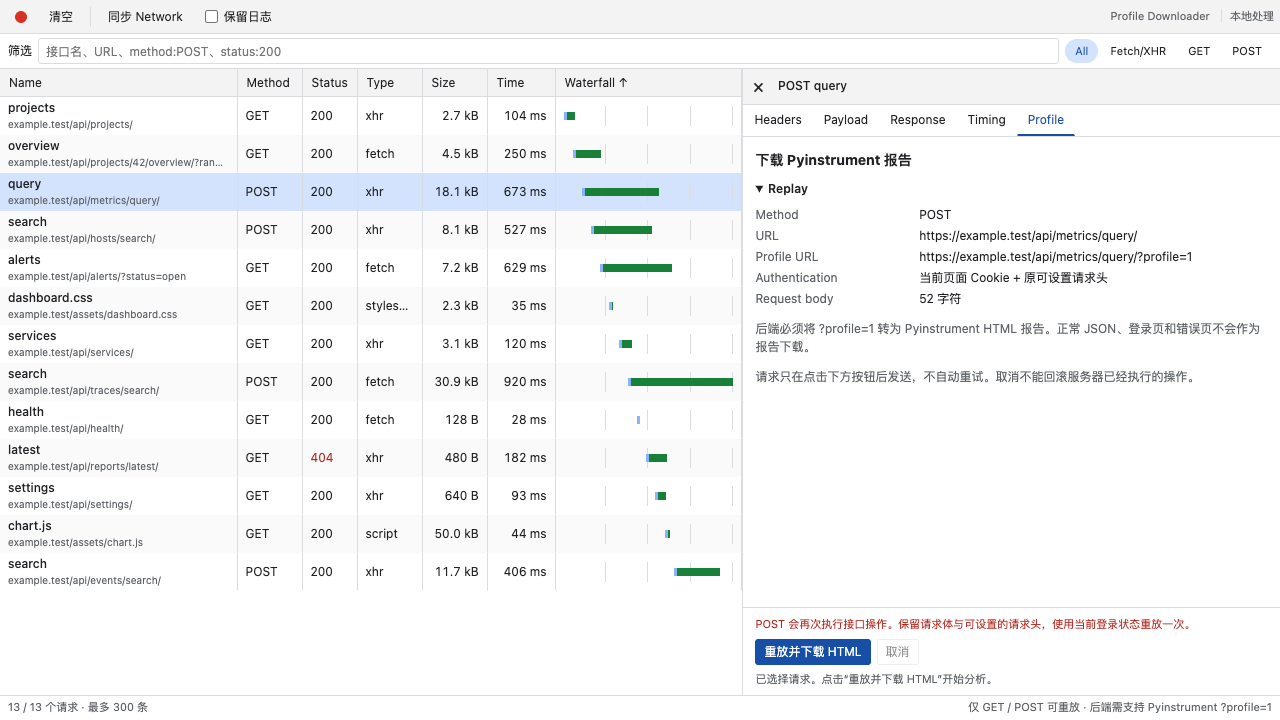
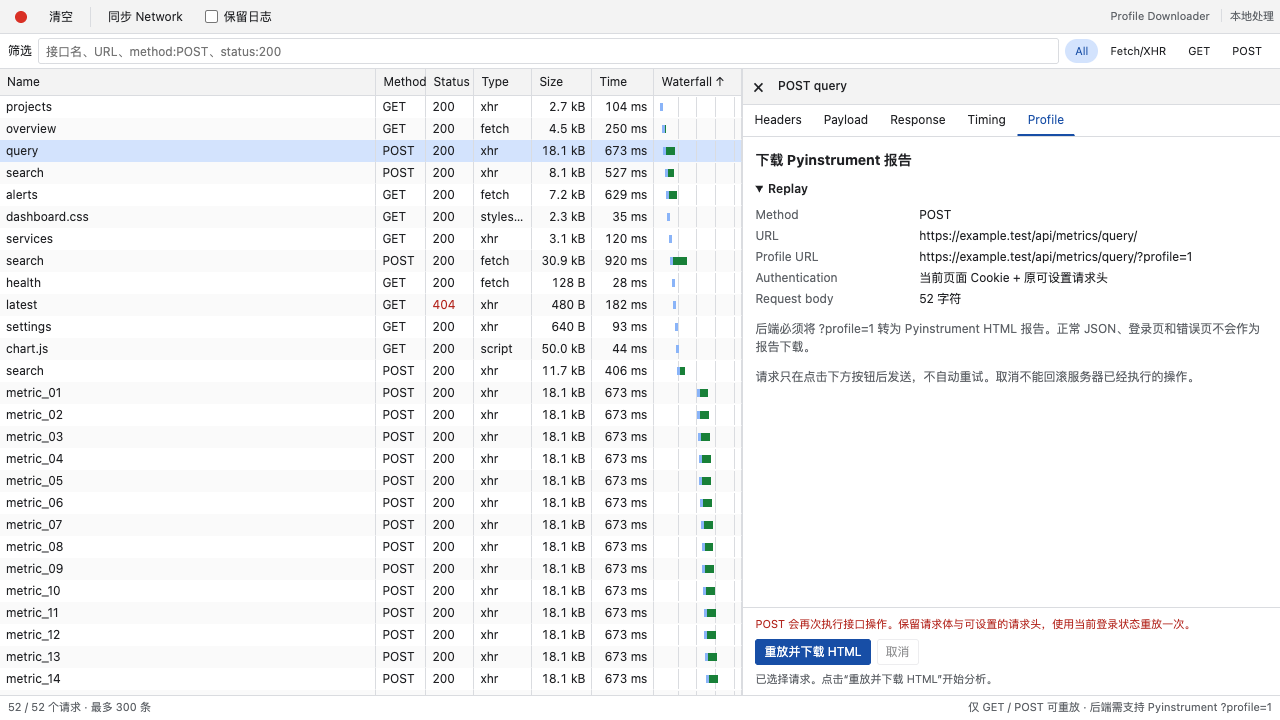
fix: match Network request row density and fit narrow panels

diff --git a/panel.css b/panel.css
@@ -1,4 +1,7 @@
 :root{color-scheme:light;--bg:#fff;--toolbar:#f3f3f3;--text:#202124;--muted:#5f6368;--line:#dadce0;--hover:#f0f4fa;--selected:#d3e3fd;--accent:#174ea6;--on-accent:#fff;--error:#b3261e;--stripe:#fafafa;--waterfall:#188038;--wait:#8ab4f8}
 :root[data-theme=dark]{color-scheme:dark;--bg:#202124;--toolbar:#292a2d;--text:#e8eaed;--muted:#bdc1c6;--line:#45474a;--hover:#30343b;--selected:#394b68;--accent:#a8c7fa;--on-accent:#062e6f;--error:#f2b8b5;--stripe:#242529;--waterfall:#81c995;--wait:#669df6}
-*{box-sizing:border-box}body{margin:0;background:var(--bg);color:var(--text);font:12px/1.5 -apple-system,BlinkMacSystemFont,"Segoe UI",sans-serif;height:100vh;display:flex;flex-direction:column;overflow:hidden}button,input{font:inherit;color:inherit}button{border:1px solid transparent;background:transparent;cursor:pointer;border-radius:3px;min-height:26px;padding:2px 8px;white-space:nowrap}button:hover:not(:disabled){background:var(--hover)}button:disabled{opacity:.5;cursor:default}button:focus-visible,input:focus-visible,[tabindex]:focus-visible{outline:2px solid var(--accent);outline-offset:-2px}.toolbar{display:flex;align-items:center;gap:4px;min-height:34px;padding:3px 6px;background:var(--toolbar);border-bottom:1px solid var(--line);flex-wrap:wrap}.toolbar-end{margin-left:auto;color:var(--muted);font-size:11px}.local{border-left:1px solid var(--line);margin-left:8px;padding-left:8px}.icon-button{font-size:19px;min-width:28px;display:inline-grid;place-content:center}.record-dot{display:block;width:12px;height:12px;border:2px solid var(--muted);border-radius:50%}.recording .record-dot{background:#d93025;border-color:#d93025}.divider{height:20px;border-left:1px solid var(--line);margin:0 4px}.checkbox{display:flex;align-items:center;gap:3px;padding-inline:5px;white-space:nowrap}.checkbox input{accent-color:var(--accent)}.filterbar{display:flex;align-items:center;gap:6px;padding:4px 8px;border-bottom:1px solid var(--line);flex-wrap:wrap}.filterbar>input{min-width:150px;flex:1;border:1px solid var(--line);background:var(--bg);border-radius:3px;height:26px;padding:2px 7px}.filters{display:flex;gap:2px}.filters button{border-radius:12px;min-height:24px;font-size:11px;padding:1px 9px}.filters .active{background:var(--selected);color:var(--accent)}main{display:flex;flex:1;min-height:0;overflow:hidden}.requests{flex:1;min-width:0;display:flex;flex-direction:column}.table-scroll{overflow:auto;flex:1;position:relative}table{width:100%;min-width:700px;table-layout:fixed;border-collapse:separate;border-spacing:0;font-size:12px}.name-col{width:32%}.method-col{width:65px}.status-col{width:55px}.type-col{width:65px}.size-col{width:65px}.time-col{width:68px}.waterfall-col{width:auto}thead{position:sticky;top:0;z-index:1;background:var(--toolbar)}th{text-align:left;font-weight:400;border-bottom:1px solid var(--line);border-right:1px solid var(--line);height:28px;padding:0}th button{border-radius:0;width:100%;text-align:left;padding:2px 8px}td{height:38px;padding:2px 8px;overflow:hidden;text-overflow:ellipsis;white-space:nowrap;border-right:1px solid var(--line);border-bottom:1px solid transparent}tr:nth-child(even) td{background:var(--stripe)}tbody tr{cursor:default}tbody tr:hover td{background:var(--hover)}tbody tr.selected td{background:var(--selected)}tbody tr.failed .status-cell{color:var(--error)}.request-name{font-weight:500;display:block;overflow:hidden;text-overflow:ellipsis}.request-path{font-size:10px;color:var(--muted);display:block;overflow:hidden;text-overflow:ellipsis}.numeric{text-align:right;font-variant-numeric:tabular-nums}.waterfall-track{height:20px;position:relative;background:repeating-linear-gradient(to right,transparent 0,transparent calc(25% - 1px),var(--line) calc(25% - 1px),var(--line) 25%)}.waterfall-bar{position:absolute;top:6px;height:8px;min-width:2px;background:var(--waterfall);border-left:3px solid var(--wait);max-width:100%}.empty{padding:60px 20px;color:var(--muted);text-align:center}.empty strong{color:var(--text);font-size:14px;font-weight:500}.empty p{margin:6px 0}.detail{width:42%;min-width:340px;border-left:1px solid var(--line);display:flex;flex-direction:column;overflow:hidden}.detail[hidden],.context-menu[hidden],#empty[hidden]{display:none}.detail-heading{display:flex;align-items:center;gap:5px;min-height:31px;background:var(--toolbar);border-bottom:1px solid var(--line)}#selection{white-space:nowrap;overflow:hidden;text-overflow:ellipsis;padding-right:8px;font-weight:500}.tabs{display:flex;border-bottom:1px solid var(--line);overflow-x:auto;flex-shrink:0}.tabs button{border-radius:0;padding:5px 10px;border-bottom:2px solid transparent}.tabs [aria-selected=true]{color:var(--accent);border-bottom-color:var(--accent)}.detail-content{padding:10px 12px;overflow:auto;flex:1;min-height:70px;overflow-wrap:anywhere}details{margin-bottom:8px}summary{font-weight:600;cursor:pointer;padding:2px 0}.kv{display:grid;grid-template-columns:minmax(90px,30%) minmax(0,1fr);gap:3px 10px;margin:6px 0 12px}.kv dt{color:var(--muted);overflow-wrap:anywhere}.kv dd{margin:0;white-space:pre-wrap;overflow-wrap:anywhere}pre{margin:5px 0;white-space:pre-wrap;overflow-wrap:anywhere;font:11px/1.6 ui-monospace,SFMono-Regular,Consolas,monospace}.section-label{font-size:12px;margin:8px 0}.profile-actions{padding:8px 12px;border-top:1px solid var(--line);flex-shrink:0}.profile-actions p{margin:0 0 6px;color:var(--muted);font-size:11px}.profile-actions p.warning,.error{color:var(--error)}.actions{display:flex;gap:6px}.actions button{border-color:var(--line)}.primary{background:var(--accent);color:var(--on-accent);border-color:var(--accent)!important}.primary:hover:not(:disabled){background:var(--accent);filter:brightness(.93)}#status{white-space:pre-wrap;overflow-wrap:anywhere;margin:6px 0 0;max-height:88px;overflow:auto}#status.error{color:var(--error)}footer{display:flex;justify-content:space-between;gap:10px;padding:3px 8px;min-height:25px;border-top:1px solid var(--line);color:var(--muted);font-size:11px;flex-wrap:wrap}.context-menu{position:fixed;z-index:10;min-width:210px;max-width:calc(100vw - 8px);padding:4px;background:var(--bg);border:1px solid var(--line);border-radius:5px;box-shadow:0 3px 10px #0003}.context-menu button{display:block;width:100%;text-align:left;min-height:28px}.context-menu button:focus{background:var(--selected)}.timing-row{display:grid;grid-template-columns:110px 1fr 70px;align-items:center;gap:8px;margin:7px 0}.timing-bar{height:7px;background:var(--wait);min-width:1px}.profile-title{margin:2px 0 8px;font-size:14px}.muted{color:var(--muted)}
-@media(max-width:1000px){main{flex-direction:column}.requests{min-height:130px}.detail{width:100%;min-width:0;height:52%;border-left:0;border-top:1px solid var(--line);flex-shrink:0}.detail-content{min-height:50px}}@media(max-width:550px){.toolbar-end{display:none}.filters{margin-left:auto}footer span:last-child{display:none}.tabs button{padding-inline:8px}.profile-actions{padding:6px 10px}td{height:36px}}
+*{box-sizing:border-box}body{margin:0;background:var(--bg);color:var(--text);font:12px/1.5 -apple-system,BlinkMacSystemFont,"Segoe UI",sans-serif;height:100vh;display:flex;flex-direction:column;overflow:hidden}button,input{font:inherit;color:inherit}button{border:1px solid transparent;background:transparent;cursor:pointer;border-radius:3px;min-height:26px;padding:2px 8px;white-space:nowrap}button:hover:not(:disabled){background:var(--hover)}button:disabled{opacity:.5;cursor:default}button:focus-visible,input:focus-visible,[tabindex]:focus-visible{outline:2px solid var(--accent);outline-offset:-2px}.toolbar{display:flex;align-items:center;gap:4px;min-height:34px;padding:3px 6px;background:var(--toolbar);border-bottom:1px solid var(--line);flex-wrap:wrap}.toolbar-end{margin-left:auto;color:var(--muted);font-size:11px}.local{border-left:1px solid var(--line);margin-left:8px;padding-left:8px}.icon-button{font-size:19px;min-width:28px;display:inline-grid;place-content:center}.record-dot{display:block;width:12px;height:12px;border:2px solid var(--muted);border-radius:50%}.recording .record-dot{background:#d93025;border-color:#d93025}.divider{height:20px;border-left:1px solid var(--line);margin:0 4px}.checkbox{display:flex;align-items:center;gap:3px;padding-inline:5px;white-space:nowrap}.checkbox input{accent-color:var(--accent)}.filterbar{display:flex;align-items:center;gap:6px;padding:4px 8px;border-bottom:1px solid var(--line);flex-wrap:wrap}.filterbar>input{min-width:150px;flex:1;border:1px solid var(--line);background:var(--bg);border-radius:3px;height:26px;padding:2px 7px}.filters{display:flex;gap:2px}.filters button{border-radius:12px;min-height:24px;font-size:11px;padding:1px 9px}.filters .active{background:var(--selected);color:var(--accent)}main{display:flex;flex:1;min-height:0;overflow:hidden}.requests{flex:1;min-width:0;display:flex;flex-direction:column;container-type:inline-size}.table-scroll{overflow:auto;flex:1;position:relative}table{width:100%;min-width:0;table-layout:fixed;border-collapse:separate;border-spacing:0;font-size:12px}.name-col{width:auto}.method-col{width:50px}.status-col{width:48px}.type-col{width:58px}.size-col{width:60px}.time-col{width:62px}.waterfall-col{width:88px}thead{position:sticky;top:0;z-index:1;background:var(--toolbar)}th{text-align:left;font-weight:400;border-bottom:1px solid var(--line);border-right:1px solid var(--line);height:24px;padding:0}th button{border-radius:0;width:100%;text-align:left;padding:1px 6px}td{height:22px;line-height:20px;padding:0 6px;overflow:hidden;text-overflow:ellipsis;white-space:nowrap;border-right:1px solid var(--line);border-bottom:1px solid transparent}tr:nth-child(even) td{background:var(--stripe)}tbody tr{cursor:default}tbody tr:hover td{background:var(--hover)}tbody tr.selected td{background:var(--selected)}tbody tr.failed .status-cell{color:var(--error)}.request-name{font-weight:400;display:block;overflow:hidden;text-overflow:ellipsis;line-height:20px}.numeric{text-align:right;font-variant-numeric:tabular-nums}.waterfall-track{height:20px;position:relative;background:repeating-linear-gradient(to right,transparent 0,transparent calc(25% - 1px),var(--line) calc(25% - 1px),var(--line) 25%)}.waterfall-bar{position:absolute;top:6px;height:8px;min-width:2px;background:var(--waterfall);border-left:3px solid var(--wait);max-width:100%}.empty{padding:60px 20px;color:var(--muted);text-align:center}.empty strong{color:var(--text);font-size:14px;font-weight:500}.empty p{margin:6px 0}.detail{width:42%;min-width:340px;border-left:1px solid var(--line);display:flex;flex-direction:column;overflow:hidden}.detail[hidden],.context-menu[hidden],#empty[hidden]{display:none}.detail-heading{display:flex;align-items:center;gap:5px;min-height:31px;background:var(--toolbar);border-bottom:1px solid var(--line)}#selection{white-space:nowrap;overflow:hidden;text-overflow:ellipsis;padding-right:8px;font-weight:500}.tabs{display:flex;border-bottom:1px solid var(--line);overflow-x:auto;flex-shrink:0}.tabs button{border-radius:0;padding:5px 10px;border-bottom:2px solid transparent}.tabs [aria-selected=true]{color:var(--accent);border-bottom-color:var(--accent)}.detail-content{padding:10px 12px;overflow:auto;flex:1;min-height:70px;overflow-wrap:anywhere}details{margin-bottom:8px}summary{font-weight:600;cursor:pointer;padding:2px 0}.kv{display:grid;grid-template-columns:minmax(90px,30%) minmax(0,1fr);gap:3px 10px;margin:6px 0 12px}.kv dt{color:var(--muted);overflow-wrap:anywhere}.kv dd{margin:0;white-space:pre-wrap;overflow-wrap:anywhere}pre{margin:5px 0;white-space:pre-wrap;overflow-wrap:anywhere;font:11px/1.6 ui-monospace,SFMono-Regular,Consolas,monospace}.section-label{font-size:12px;margin:8px 0}.profile-actions{padding:8px 12px;border-top:1px solid var(--line);flex-shrink:0}.profile-actions p{margin:0 0 6px;color:var(--muted);font-size:11px}.profile-actions p.warning,.error{color:var(--error)}.actions{display:flex;gap:6px}.actions button{border-color:var(--line)}.primary{background:var(--accent);color:var(--on-accent);border-color:var(--accent)!important}.primary:hover:not(:disabled){background:var(--accent);filter:brightness(.93)}#status{white-space:pre-wrap;overflow-wrap:anywhere;margin:6px 0 0;max-height:88px;overflow:auto}#status.error{color:var(--error)}footer{display:flex;justify-content:space-between;gap:10px;padding:3px 8px;min-height:25px;border-top:1px solid var(--line);color:var(--muted);font-size:11px;flex-wrap:wrap}.context-menu{position:fixed;z-index:10;min-width:210px;max-width:calc(100vw - 8px);padding:4px;background:var(--bg);border:1px solid var(--line);border-radius:5px;box-shadow:0 3px 10px #0003}.context-menu button{display:block;width:100%;text-align:left;min-height:28px}.context-menu button:focus{background:var(--selected)}.timing-row{display:grid;grid-template-columns:110px 1fr 70px;align-items:center;gap:8px;margin:7px 0}.timing-bar{height:7px;background:var(--wait);min-width:1px}.profile-title{margin:2px 0 8px;font-size:14px}.muted{color:var(--muted)}
+@media(max-width:1000px){main{flex-direction:column}.requests{min-height:130px}.detail{width:100%;min-width:0;height:52%;border-left:0;border-top:1px solid var(--line);flex-shrink:0}.detail-content{min-height:50px}}@media(max-width:550px){.toolbar-end{display:none}.filters{margin-left:auto}footer span:last-child{display:none}.tabs button{padding-inline:8px}.profile-actions{padding:6px 10px}}
+
+@container(max-width:560px){.waterfall-col,th:nth-child(7),td:nth-child(7){display:none}}
+@container(max-width:440px){.type-col,th:nth-child(4),td:nth-child(4){display:none}}

diff --git a/docs/releases/v1.1.1.md b/docs/releases/v1.1.1.md
@@ -1,0 +1,14 @@
+# Profile Downloader v1.1.1
+
+Fix request-list density / 修复请求列表占用过高，单屏可查看更多接口。
+
+- Default to 22 px single-line rows; show the endpoint name and expose its full URL on hover and in Headers.
+- Tighten column widths and adapt narrow lists by hiding Waterfall / Type when needed. Full request details remain available.
+
+默认请求行改为 22 px 单行，完整 URL 可悬停或进入 Headers 查看；窄列表按需调整可见列。
+
+在 633 × 870 像素面板、52 条合成请求下，行高从 38 px 降到 22 px，单屏完整请求行从 19 条增加到 34 条；表格宽度由 700 px 适配为 633 px，无横向溢出。
+
+Validation: 29 / 29 Node tests and source / security / build / release checks passed. Browser UI regression with mocked DevTools APIs passed at widths 1280, 633, 560, 441, 440 and 375 px, including full-URL access, context-menu behavior, POST replay / download, keyboard selection and light / dark themes. This patch's UI check does not claim new real-DevTools or backend sampling validation.
+
+Download and extract this Release's ZIP, reload the unpacked extension, then reopen DevTools. Backend requirements and the explicit GET / POST replay flow are unchanged. See [usage](https://github.com/abbhb/profile-downloader/blob/v1.1.1/docs/usage.md) and [validation scope](https://github.com/abbhb/profile-downloader/blob/v1.1.1/docs/testing.md).

diff --git a/docs/testing.md b/docs/testing.md
@@ -7,13 +7,29 @@
 ```sh
 npm ci
 npm test
-npm run check -- v1.1.0
+npm run check -- v1.1.1
 npm run security:check
 npm run build
-npm run release:check -- v1.1.0
+npm run release:check -- v1.1.1
 ```
 
 后续版本替换命令中的 tag。`npm test` 运行 Node 内置测试器，没有真实浏览器或外部业务请求。开发环境要求 Node.js 22+。
+
+### 1.1.1 验证结果
+
+本版 `npm test` 29 项全部通过，`check`、敏感材料检查、构建和 `release:check -- v1.1.1` 均通过。
+
+浏览器测试加载真实 panel 资源并使用模拟 DevTools API、52 条合成请求，在 633 × 870 像素面板中比较结果：
+
+| 项目 | 旧布局 | 1.1.1 |
+| --- | --- | --- |
+| 请求行高度 | 38 px | 22 px |
+| 单屏完整请求行 | 19 | 34 |
+| 表格滚动宽度 | 700 px | 633 px，无横向溢出 |
+
+1280、633、560、441、440、375 像素宽面板均实测为 22 px 行高且无横向溢出。行悬停完整 URL、Headers URL、内部右键不自动发送、POST 明确重放与下载、键盘选择以及明暗主题均通过。新版文档截图已人工检查，全部使用 `example.test` 合成数据。
+
+本轮是模拟 API 的 UI 回归，不表示重新执行了真实 DevTools 或真实服务端采样验证。正式 tag 发布后仍需下载远端 Release 附件校验；此前真实扩展运行的覆盖范围见下文 1.1.0 记录。
 
 ### 1.1.0 本地结果
 

diff --git a/AGENTS.md b/AGENTS.md
@@ -15,6 +15,8 @@ If there is no `.codegraph/` directory, skip CodeGraph entirely — indexing is 
 
 - This is a Manifest V3 Chrome / Edge DevTools extension using vanilla JavaScript ES modules, HTML and CSS.
 - Prefer the compact Network-style workflow. Preserve request names, full URL discoverability, filters, sorting, request detail tabs and the in-panel right-click Profile action.
+- Default to 22 px single-line request rows. Keep the endpoint name on that line and the full URL in the row tooltip and Headers; preserving list density is an explicit product requirement. Retain this layout in future changes unless the user requests a different density.
+- Fit the table to narrow list panes with compact column widths and adaptive Waterfall / Type visibility; keep the complete request information in details.
 - Public Chrome APIs do not expose native Network request-row context-menu injection or its current selection. Do not claim a native Network bridge or use undocumented DevTools internals.
 - Capture HTTP(S) methods for inspection; replay only supported GET / POST requests after the user explicitly clicks replay. A context-menu selection alone must not send a request.
 - Preserve query parameters, full text body and settable headers. Reject missing body and multipart/file uploads; never silently substitute an empty body. Browser-managed headers remain browser-managed.

diff --git a/docs/usage.md b/docs/usage.md
@@ -10,7 +10,8 @@
 
 打开目标网页的 DevTools，在标签栏或 `»` 中选择 **Profile**。面板同步 DevTools 已记录的请求，并在请求完成时追加 HTTP(S) 请求。
 
-- 表格按 Name、Method、Status、Type、Size、Time 和 Waterfall 展示，Name 优先展示接口末级名称，完整 URL 可在详情中查看。
+- 请求列表默认使用 22 px 单行密度，Name 展示接口末级名称；鼠标悬停请求行或打开 Headers，可查看完整 URL。
+- 宽面板展示 Name、Method、Status、Type、Size、Time 和 Waterfall；窄列表按需隐藏 Waterfall / Type，避免强制撑宽表格，完整信息仍可在详情中查看。
 - 输入接口名称或 URL 进行搜索，也支持空格组合 `method:POST`、`status:200`、`domain:example.test`；类型筛选可选择 All、Fetch/XHR、GET 或 POST。
 - 点击可排序的表头调整顺序。Waterfall 根据已记录时间绘制，用于定位相对先后，不是原生 Network 的完整性能工具。
 - 暂停录制用于停止自动接收新完成的请求；“同步 Network”用于显式重新读取现有记录。

diff --git a/README.md b/README.md
@@ -22,7 +22,7 @@ No build is required to load the source directory. This repository distributes a
 ## Use / 使用
 
 1. Trigger the request in the inspected page, or sync the requests already recorded by DevTools.
-2. Find the endpoint using the compact Name / Method / Status / Type / Size / Time / Waterfall table, sorting and filters.
+2. Find the endpoint using compact 22 px single-line rows, sorting and filters. Full URLs are available on hover and in Headers; narrow lists adapt the visible columns.
 3. Select the request to inspect Headers, Payload, Response and Timing.
 4. Right-click the request **inside Profile** to open its Profile action, then click the replay button to send once and save the HTML report.
 

diff --git a/CHANGELOG.md b/CHANGELOG.md
@@ -2,6 +2,12 @@
 
 This project follows Semantic Versioning. Tags use the `vMAJOR.MINOR.PATCH` form.
 
+## 1.1.1 — 2026-10-13
+
+- Use 22 px single-line request rows so more endpoints fit in the panel.
+- Show the endpoint name in each row; keep the full URL available on hover and in Headers.
+- Tighten column widths and adapt narrow lists by hiding Waterfall / Type as needed while retaining full request details.
+
 ## 1.1.0 — 2026-10-13
 
 First public release. The earlier 1.0.0 manifest belonged to a local prototype and was not a public release.
